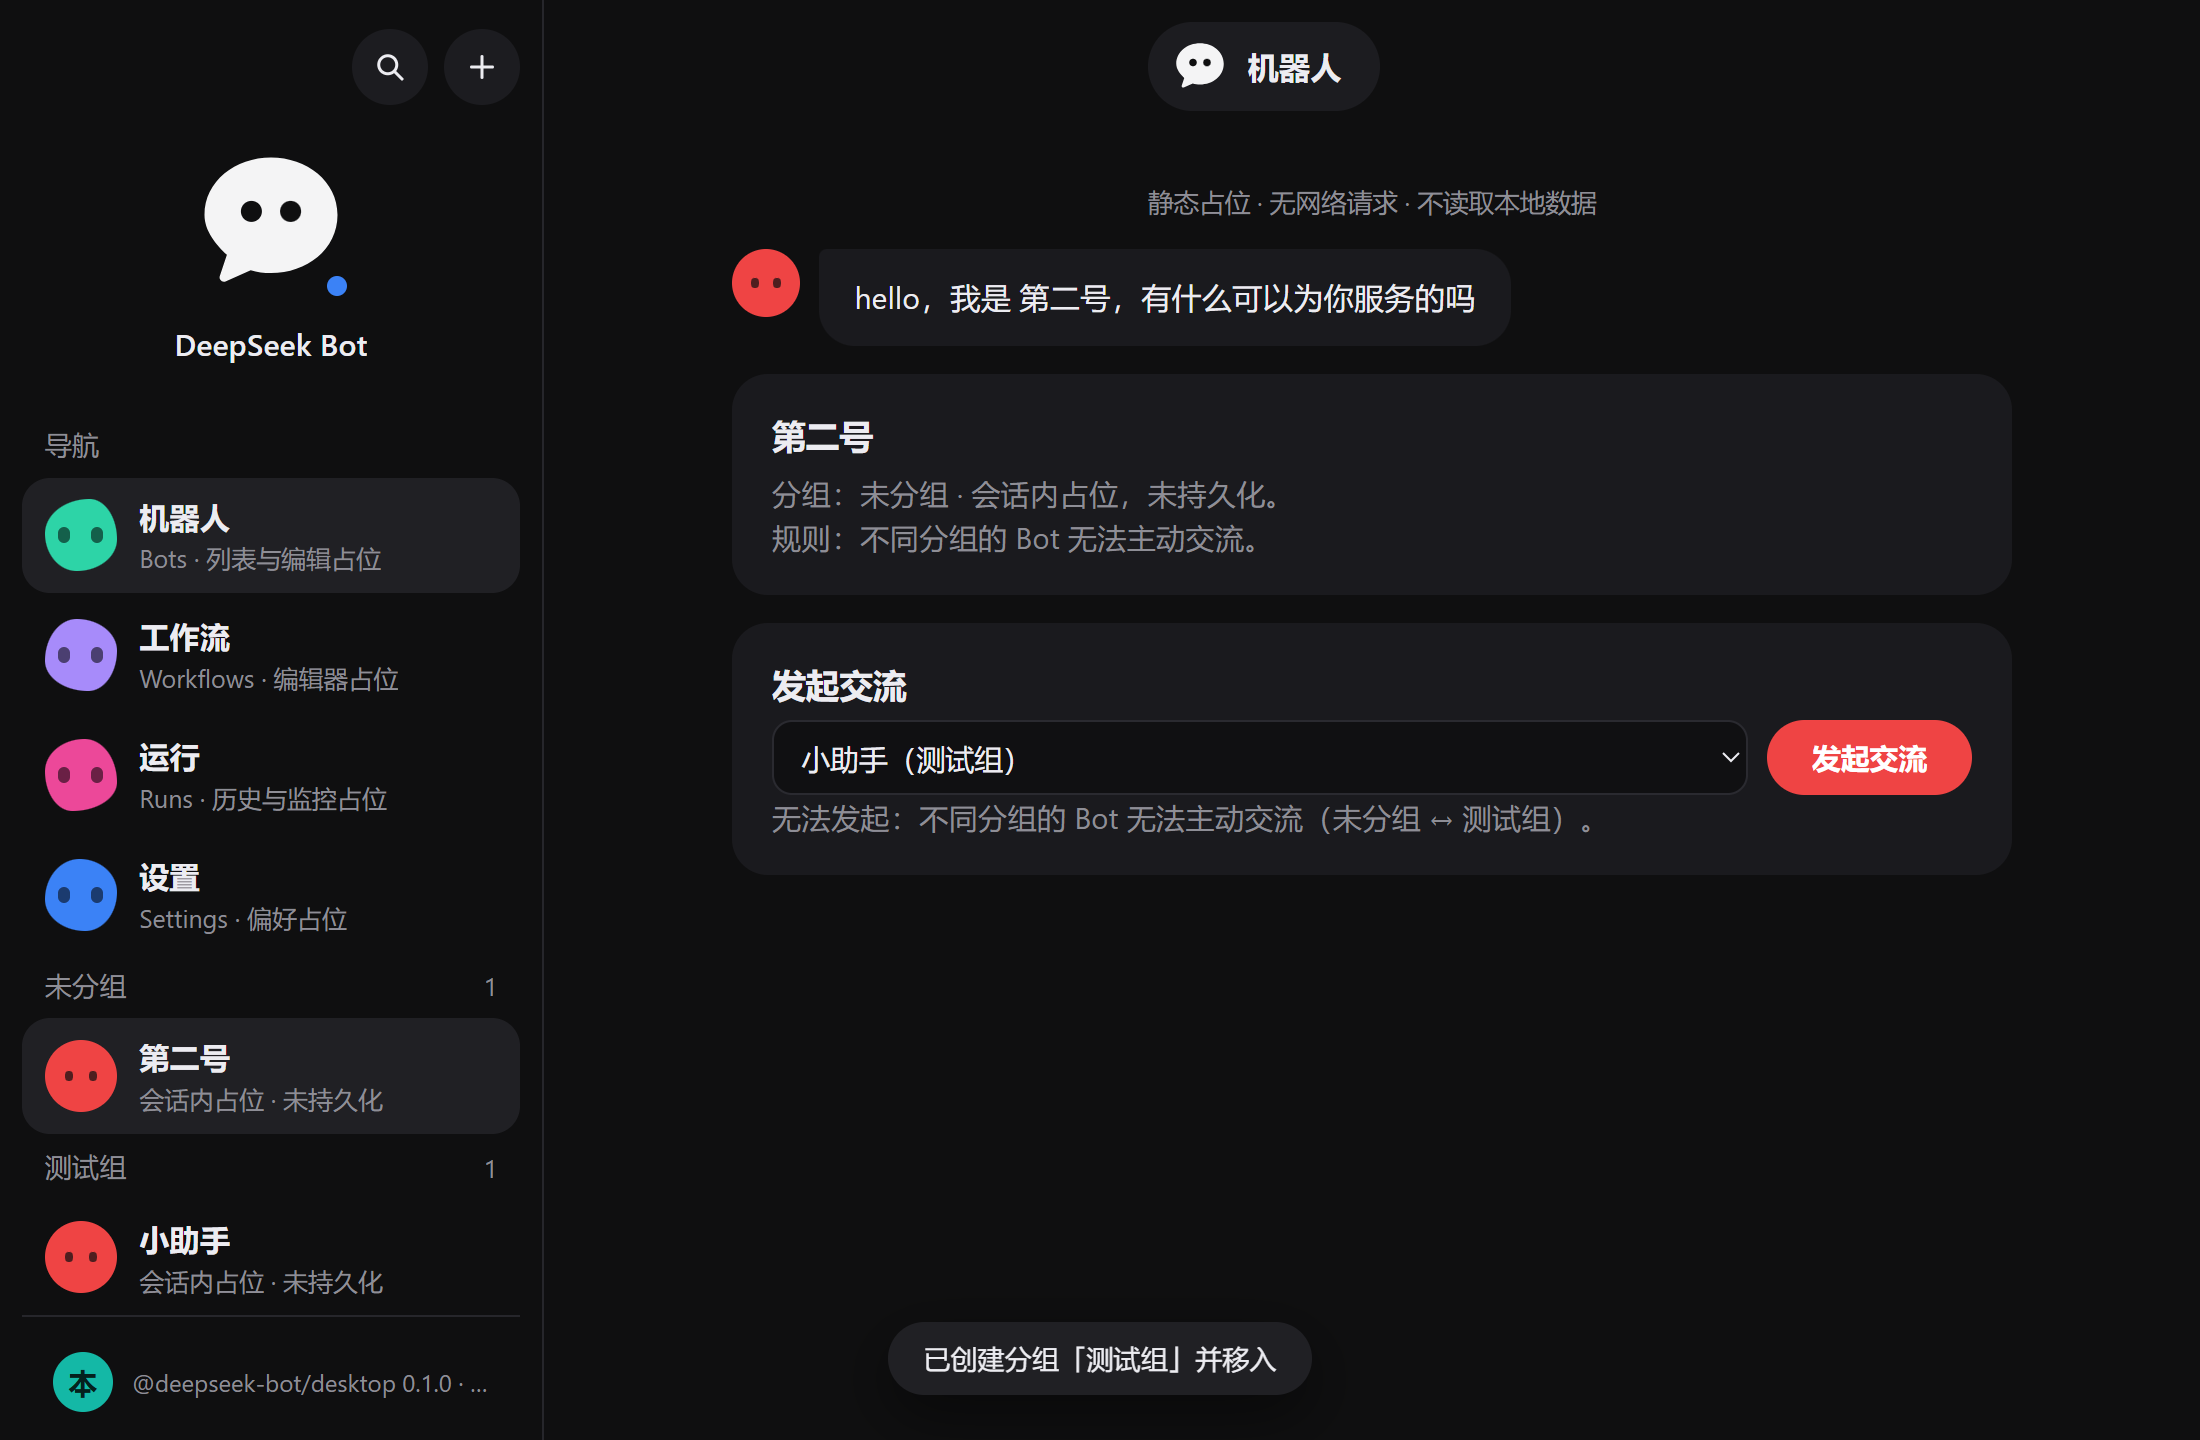
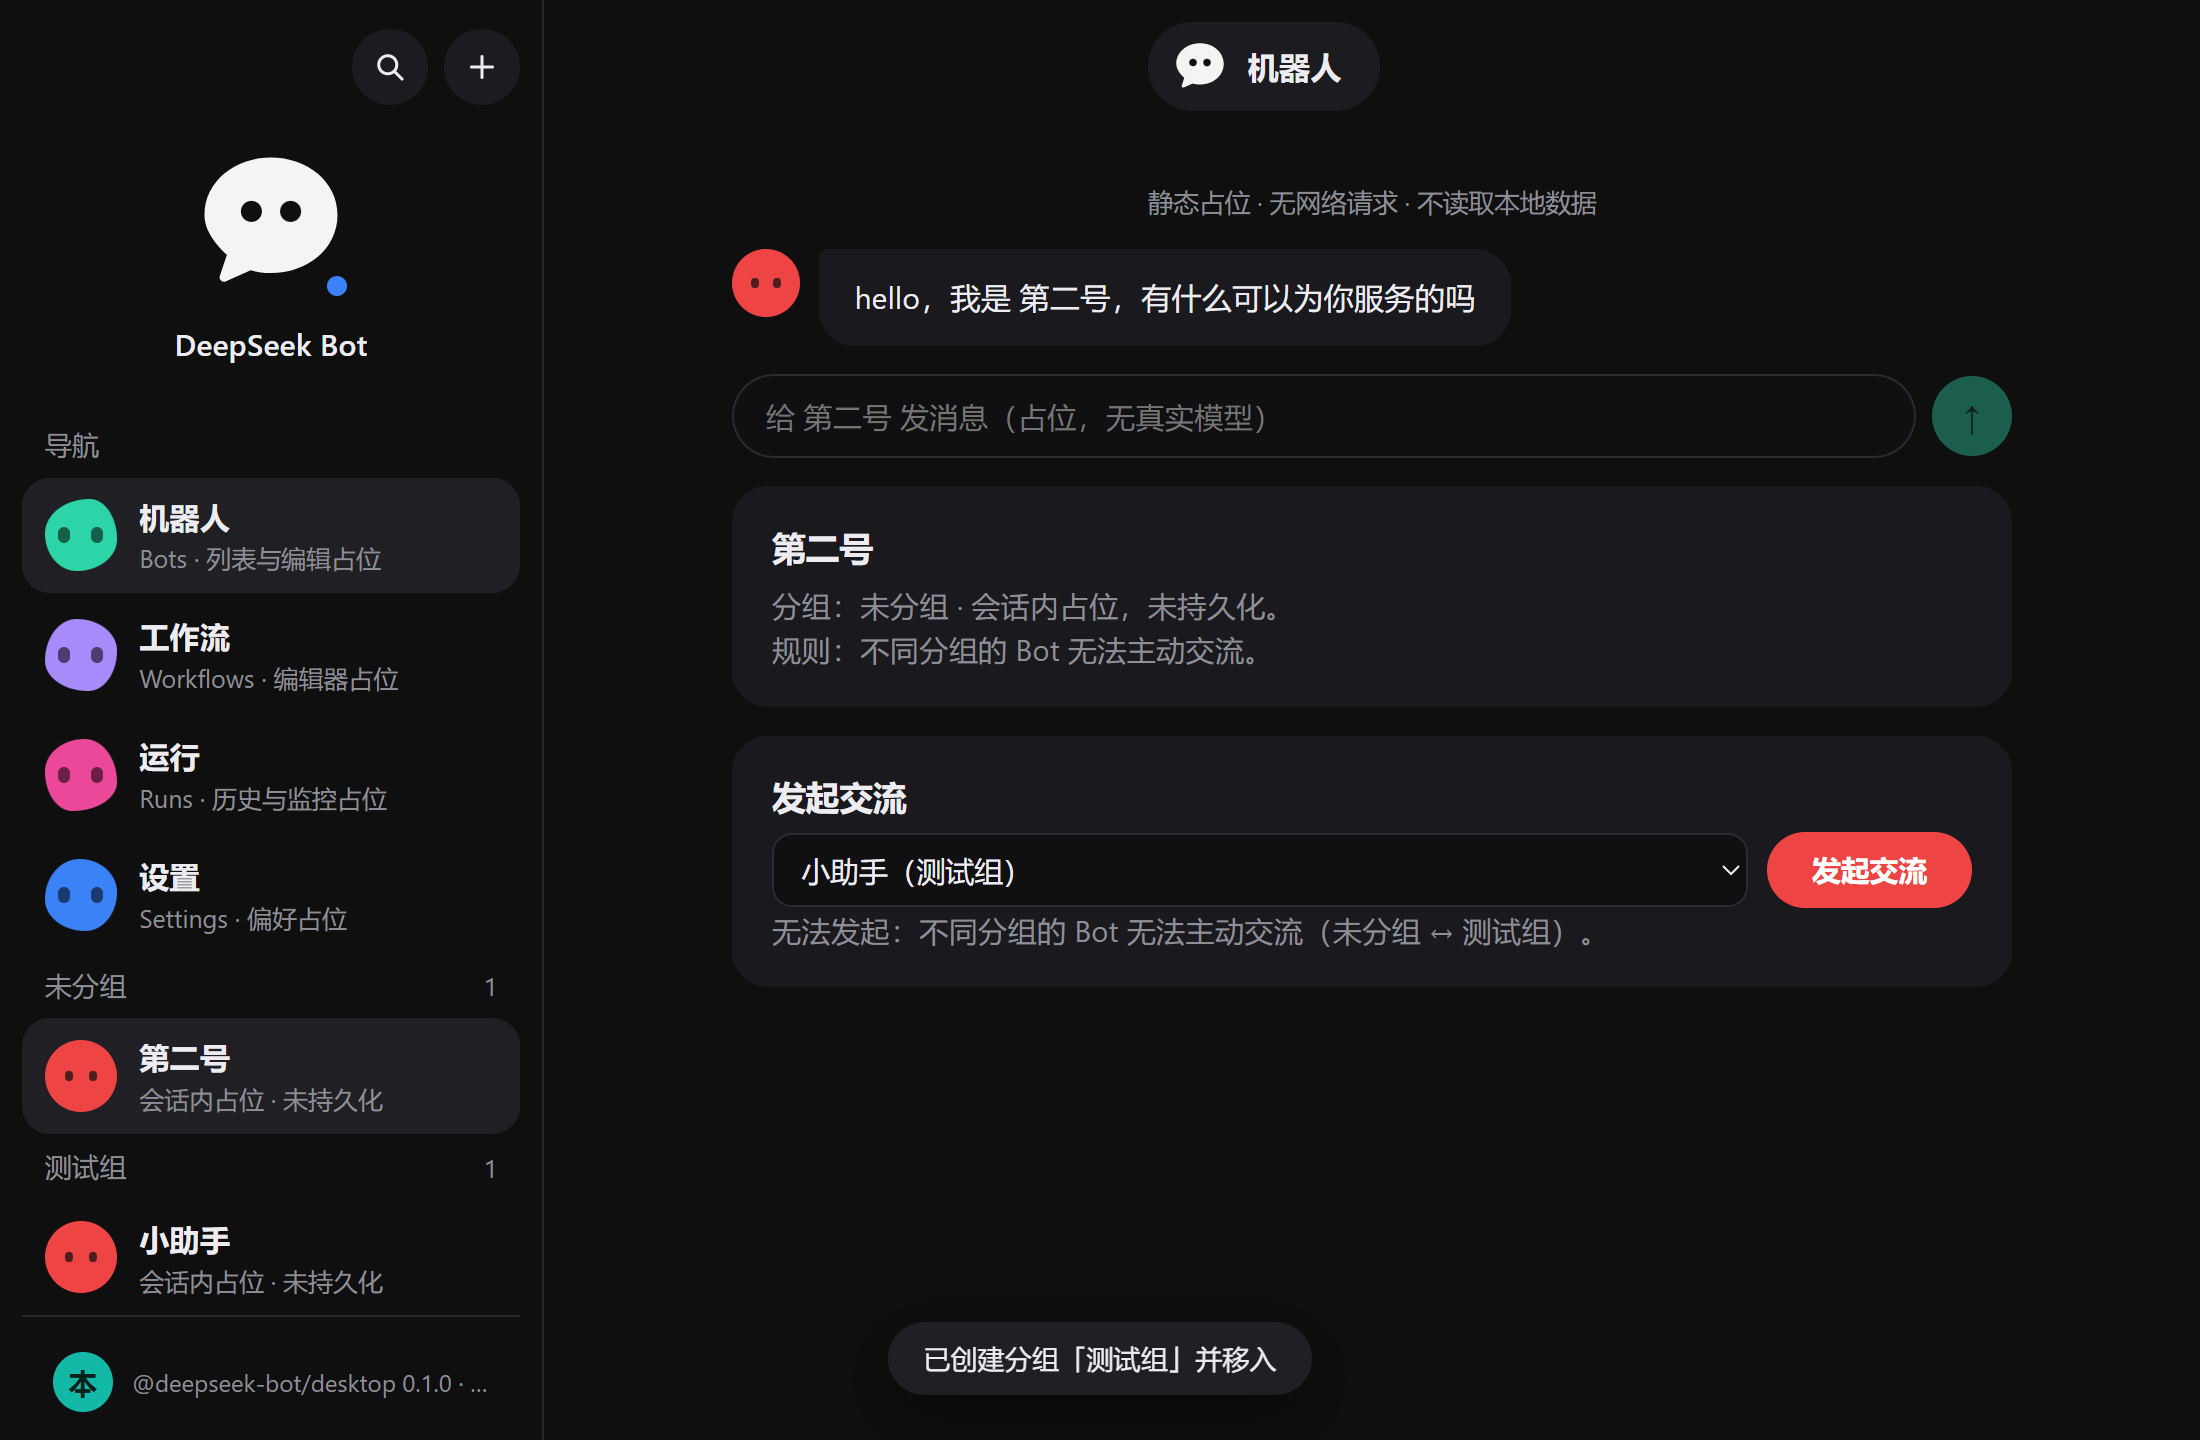
docs: record chat reactions, quoting and drag-drop evidence

Changed region(s): [[0.34, 0.2812, 0.7109, 0.6562], [0.8036, 0.5, 0.8964, 0.6562], [0.8655, 0.25, 0.9273, 0.3125]]

diff --git a/docs/DESKTOP_SHELL.md b/docs/DESKTOP_SHELL.md
@@ -80,9 +80,10 @@ preload 暴露面：`deepseekBot.getAppInfo()` 与 `deepseekBot.window.{show,hid
 - 设置弹窗：点击左下角账户按钮进入。分类「通用」可用（电脑 / 保险库 / 用量与账单 / 更新为占位禁用）；实现账户改名字、退出登录（占位）、主题深色/浅色切换；其余项标「后续提供」。
 - 会话内占位交互（全部仅存内存，重启即清空，不涉及后端）：
   - 创建 Bot 弹窗：名称、形状、颜色、所属分组。
-  - Bot 分组：创建分组、移至分组；侧边栏按分组展示。
+  - Bot 分组：创建分组、移至分组、**拖拽换组**（拖起显示头像拖拽影像，目标分组虚线高亮，空分组有放置提示）；侧边栏按分组展示。
   - Bot 右键菜单：置顶、移至、标为未读/已读、重命名、复制对话 ID（占位 ID）、从侧边栏隐藏、删除。
-  - 选中 Bot 显示问候语：“hello，我是 {名字}，有什么可以为你服务的吗”。
+  - 会话视图：问候语为首条消息；底部输入框发送消息（用户气泡右侧、Bot 占位回复）。
+  - 消息 hover 操作条：👍 👎 ❤ 😂 🎉 反应（气泡下计数 chip，可再点取消）与 ↩ 引用（引用 chip + 发送的消息嵌套展示引用）。
   - 交流规则（UI 层演示）：不同分组的 Bot 无法主动交流；同分组允许（占位会话）。
 - 键盘可达：Tab 焦点、`aria-*` 语义、Esc 关闭弹窗/菜单；未引入 UI 组件库。
 
@@ -106,3 +107,4 @@ preload 暴露面：`deepseekBot.getAppInfo()` 与 `deepseekBot.window.{show,hid
 6. 对话 ID 的真实语义与复制（当前为 `bot-<key>` 占位）。
 7. 账号系统与多账户（真实登录/退出/添加账户）。
 8. 设置持久化（主题、账户名等）与设置其余分类（电脑/保险库/用量与账单/更新）。
+9. 会话消息、表情反应、引用与拖拽分组的持久化；真实模型回复接入后这些交互需映射到契约层（D03/D05）。
